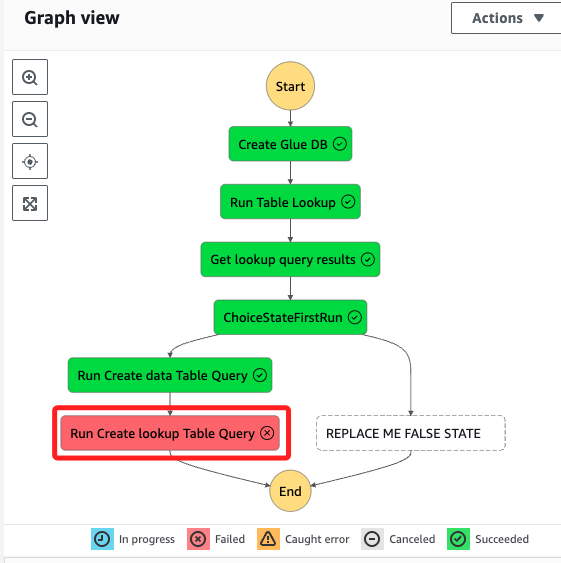
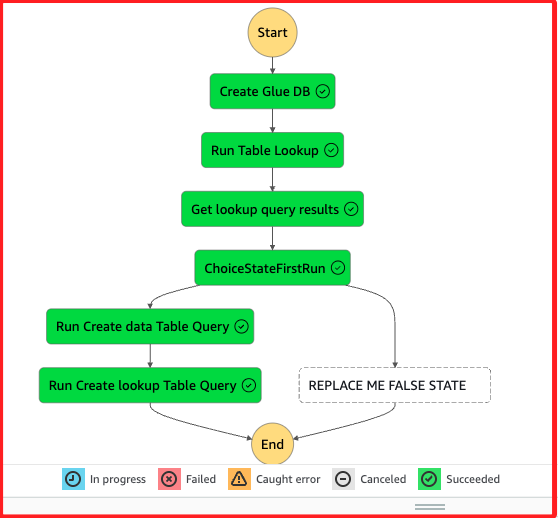
Commit on 2024-10-09 03:17:00

Changed region(s): [[0.0, 0.0, 1.0, 1.0], [0.8835, 0.7413, 0.914, 0.7722]]

diff --git a/01_課程筆記/00_Lab/95432/Lab12_Building and Orchestrating ETL Pipelines by Using Athena and Step Functions/06_Task 06.md b/01_課程筆記/00_Lab/95432/Lab12_Building and Orchestrating ETL Pipelines by Using Athena and Step Functions/06_Task 06.md
@@ -64,64 +64,23 @@ _更新工作流_
 
 <br>
 
-2. 運行工作流，出現以下錯誤。
+2. 工作流完成。
 
     ![](images/img_100.png)
 
 <br>
 
-3. 依據錯誤訊息顯示 `TABLE_NOT_FOUND`，並且是針對 `nyctaxi_lookup_csv` 表的。
+## 進入 Glue 查看
+
+1. 會看到兩個資料表。
 
     ![](images/img_101.png)
 
 <br>
 
-## 使用 Cloud9
-
-_特別注意，這並非教程指引，而是自己進行的排除，以利接續後面的操作_
-
-<br>
-
-1. 使用以下指令在 Athena 中運行查詢來創建 nyctaxi_lookup_csv 表；要替換以下 `<替換-S3-Bucket>` 的語句。
-
-    ```sql
-    aws athena start-query-execution \
-    --query-string "CREATE EXTERNAL TABLE nyctaxidb.nyctaxi_lookup_csv(  
-        locationid bigint,   
-        borough string,   
-        zone string,   
-        service_zone string,   
-        latitude double,   
-        longitude double) 
-    ROW FORMAT DELIMITED   
-    FIELDS TERMINATED BY ',' 
-    STORED AS INPUTFORMAT 'org.apache.hadoop.mapred.TextInputFormat' 
-    OUTPUTFORMAT 'org.apache.hadoop.hive.ql.io.HiveIgnoreKeyTextOutputFormat' 
-    LOCATION 's3://<你的S3-Bucket>/nyctaxidata/lookup/' 
-    TBLPROPERTIES ('skip.header.line.count'='1');" \
-    --result-configuration OutputLocation=s3://<替換-S3-Bucket>/athena/results/
-    ```
+2. 可點擊資料表進入查看 Schema。
 
     ![](images/img_102.png)
-
-<br>
-
-2. 使用以下指令查詢。
-
-    ```sql
-    aws athena get-query-execution --query-execution-id <前一個步驟取得的-ID>
-    ```
-
-<br>
-
-3. 再運行一次。
-
-    ![](images/img_103.png)
-
-<br>
-
-4. 進入 `AWS Glue` 控制台，打開 `Tables` 頁面，確認現在有兩個表 `yellowtaxi_data_csv` 和 `nyctaxi_lookup_csv`。
-
 
 <br>
 
